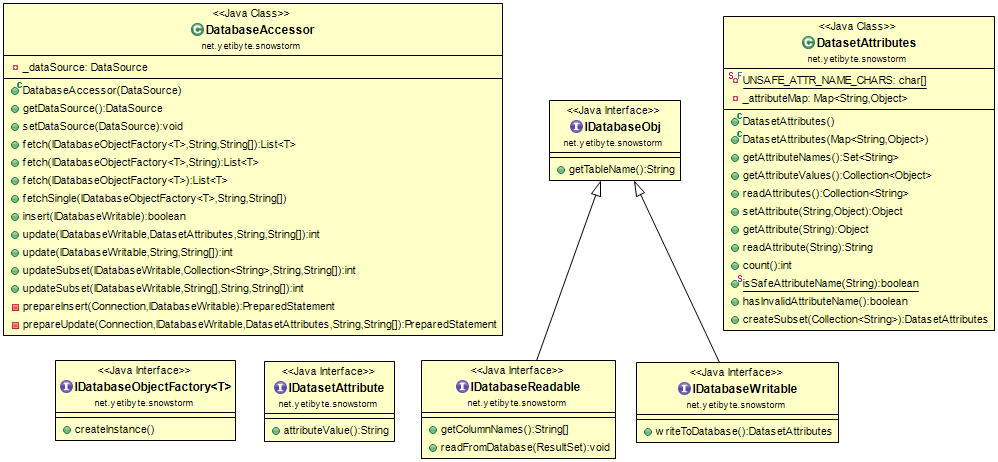
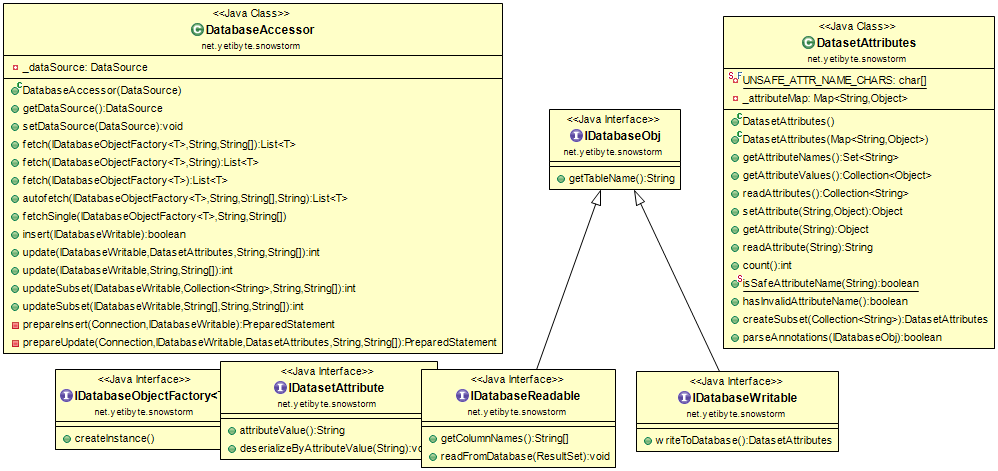
Added possibility to map database attributes to fields via annotations.

diff --git a/snowstORM/src/net/yetibyte/snowstorm/DatabaseAccessor.java b/snowstORM/src/net/yetibyte/snowstorm/DatabaseAccessor.java
@@ -2,6 +2,8 @@ package net.yetibyte.snowstorm;
 
 import java.util.*;
 import javax.sql.DataSource;
+
+import java.lang.reflect.Field;
 import java.sql.*;
 
 /**
@@ -69,7 +71,10 @@ public class DatabaseAccessor {
 			
 			String[] colNames = tempObj.getColumnNames();
 			
-			StringBuilder colBuilder = new StringBuilder(colNames == null || colNames.length > 0 ? "" : "*");
+			if(colNames == null)
+				colNames = new String[0];
+			
+			StringBuilder colBuilder = new StringBuilder(colNames.length > 0 ? "" : "*");
 			
 			for(int i = 0; i < colNames.length; i++) {
 				
@@ -149,6 +154,132 @@ public class DatabaseAccessor {
 	public <T extends IDatabaseReadable> List<T> fetch(IDatabaseObjectFactory<T> objFactory) {
 		
 		return fetch(objFactory, null, null);
+		
+	}
+	
+	public <T extends IDatabaseObj> List<T> autofetch(IDatabaseObjectFactory<T> objFactory, String whereClause, String[] sqlParams) {
+		
+		if(objFactory == null || _dataSource == null)
+			return null;
+		
+		List<T> results = new ArrayList<T>();
+		
+		Connection connection = null;
+		
+		try {
+
+			connection = _dataSource.getConnection();
+		    
+			T tempObj = objFactory.createInstance();
+			
+			Collection<Field> annotatedFields = ReflectionUtility.getFieldsWithAnnotation(tempObj.getClass(), TableAttribute.class);
+			
+			Map<String, Field> fieldMap = new HashMap<String, Field>();
+			
+			for(Field field : annotatedFields) {
+				
+				TableAttribute annotation = field.getAnnotation(TableAttribute.class);
+				
+				if(DatasetAttributes.isSafeAttributeName(annotation.column())) {
+					
+					fieldMap.put(annotation.column(), field);
+					
+				}
+				
+			}
+			
+			
+			StringBuilder colBuilder = new StringBuilder();
+			
+			Set<String> attrNames = fieldMap.keySet();
+			
+			if(attrNames.isEmpty())
+				return null;
+			
+			int currAttrIndex = 0;
+			
+			for(String attr : attrNames) {
+				
+				colBuilder.append(attr);
+				
+				if(currAttrIndex < attrNames.size()-1)
+					colBuilder.append(", ");
+				
+				currAttrIndex++;
+				
+			}
+			
+			String sql = "SELECT " + colBuilder.toString() + " FROM " + tempObj.getTableName() + " " + (whereClause != null ? "WHERE " + whereClause : "");
+			
+		    PreparedStatement statement = connection.prepareStatement(sql);
+		    
+		    if(whereClause != null && sqlParams != null) {
+		    	
+		    	for(int i = 0; i < sqlParams.length; i++)
+			    	statement.setString(i+1, sqlParams[i]);
+		    	
+		    }
+		    
+		    ResultSet rs = statement.executeQuery();
+		    
+		    while(rs.next()) {
+		    	
+		    	tempObj = objFactory.createInstance();
+		    	
+		    	for(String attrName : attrNames) {
+		    		
+		    		Field field = fieldMap.get(attrName);
+		    		
+		    		boolean wasAccessible = field.isAccessible();
+    				field.setAccessible(true);
+    				
+    				if(IDatasetAttribute.class.isAssignableFrom(field.getType())) {
+    					
+    					IDatasetAttribute fieldValue = (IDatasetAttribute)field.getType().newInstance();
+    					fieldValue.deserializeByAttributeValue(rs.getString(attrName));
+    					
+    				}
+    				else
+    					field.set(tempObj, rs.getObject(attrName));
+    				
+    				field.setAccessible(wasAccessible);
+		    		
+		    	}
+		    	
+		    	results.add(tempObj);
+		    	
+		    }
+		    
+		}
+	    catch(Exception e) {
+	    	
+	    	return null;
+	    	
+	    }
+	    finally {
+	    	
+	    	if(connection != null) {
+	    		
+	    		try { connection.close(); }
+	    		catch(Exception e) { }
+	    		
+	    	}
+	    	
+	    }
+		
+		return results;
+		
+	}
+	
+	public <T extends IDatabaseObj> List<T> autofetch(IDatabaseObjectFactory<T> objFactory, String whereClause) {
+		
+		return autofetch(objFactory, whereClause, null);
+		
+	}
+	
+	public <T extends IDatabaseObj> List<T> autofetch(IDatabaseObjectFactory<T> objFactory) {
+		
+		return autofetch(objFactory, null, null);
 		
 	}
 	

diff --git a/snowstORM/src/net/yetibyte/snowstorm/ReflectionUtility.java b/snowstORM/src/net/yetibyte/snowstorm/ReflectionUtility.java
@@ -1,0 +1,51 @@
+package net.yetibyte.snowstorm;
+
+import java.lang.annotation.Annotation;
+import java.lang.reflect.Field;
+import java.util.ArrayList;
+import java.util.Arrays;
+import java.util.Collection;
+import java.util.List;
+
+public abstract class ReflectionUtility {
+	
+	private static Collection<Field> getFieldsRecursive(List<Field> fields, Class<?> type) {
+		
+		fields.addAll(Arrays.asList(type.getDeclaredFields()));
+		
+		if(type.getSuperclass() != null)
+			getFieldsRecursive(fields, type.getSuperclass());
+		
+		return fields;
+		
+	}
+	
+	public static Collection<Field> getFieldsRecursive(Class<?> type) {
+		
+		return getFieldsRecursive(new ArrayList<Field>(), type);
+		
+	}
+	
+	private static Collection<Field> getFieldsWithAnnotation(List<Field> fields, Class<?> type, Class<? extends Annotation> annotationType) {
+		
+		for(Field field : type.getDeclaredFields()) {
+			
+			if(field.isAnnotationPresent(annotationType))
+				fields.add(field);
+			
+		}
+		
+		if(type.getSuperclass() != null)
+			getFieldsWithAnnotation(fields, type.getSuperclass(), annotationType);
+		
+		return fields;
+		
+	}
+	
+	public static Collection<Field> getFieldsWithAnnotation(Class<?> type, Class<? extends Annotation> annotationType) {
+		
+		return getFieldsWithAnnotation(new ArrayList<Field>(), type, annotationType);
+		
+	}
+
+}

diff --git a/snowstORM/src/net/yetibyte/snowstorm/TableAttribute.java b/snowstORM/src/net/yetibyte/snowstorm/TableAttribute.java
@@ -1,0 +1,17 @@
+package net.yetibyte.snowstorm;
+
+import static java.lang.annotation.ElementType.FIELD;
+import static java.lang.annotation.RetentionPolicy.RUNTIME;
+
+import java.lang.annotation.Retention;
+import java.lang.annotation.Target;
+
+@Retention(RUNTIME)
+@Target(FIELD)
+public @interface TableAttribute {
+
+	public String column();
+	
+	public boolean readonly() default false;
+	
+}

diff --git a/snowstORM/src/net/yetibyte/snowstorm/IDatabaseObjectFactory.java b/snowstORM/src/net/yetibyte/snowstorm/IDatabaseObjectFactory.java
@@ -7,7 +7,7 @@ package net.yetibyte.snowstorm;
  * @param <T> Der Typ des Datenbank-Objektes.
  */
 @FunctionalInterface
-public interface IDatabaseObjectFactory<T extends IDatabaseReadable> {
+public interface IDatabaseObjectFactory<T extends IDatabaseObj> {
 	
 	/**
 	 * Erstellt eine Instanz des Datenbank-Objekts, welches dann nach dem Verbindungsaufbau mit einer Datenbank 

diff --git a/snowstORM/src/net/yetibyte/snowstorm/IDatasetAttribute.java b/snowstORM/src/net/yetibyte/snowstorm/IDatasetAttribute.java
@@ -14,5 +14,7 @@ public interface IDatasetAttribute {
 	 * @return Eine Darstellung dieses Objektes als String.
 	 */
 	String attributeValue();
+	
+	void deserializeByAttributeValue(String attributeValue);
 
 }
